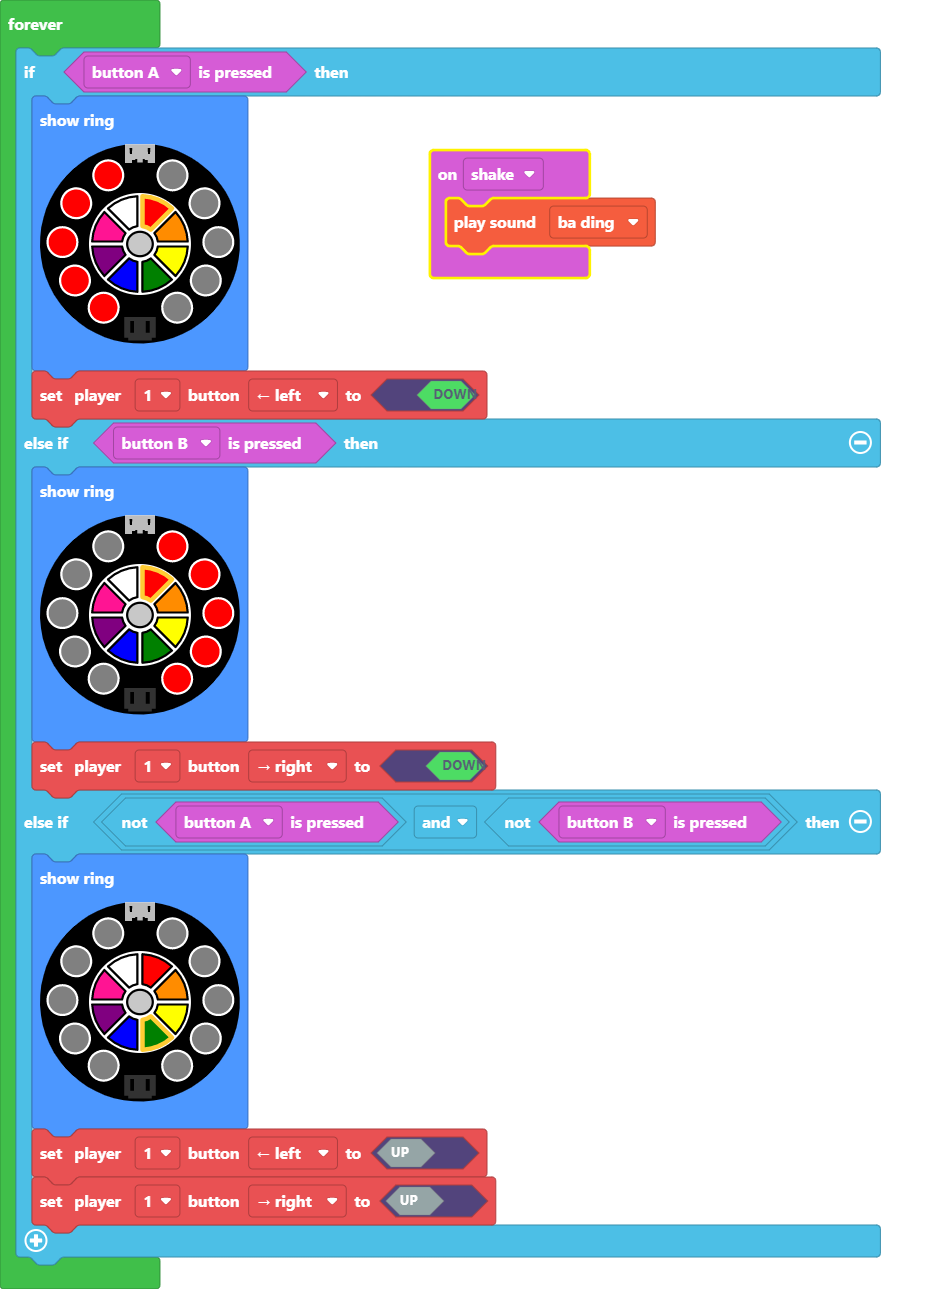
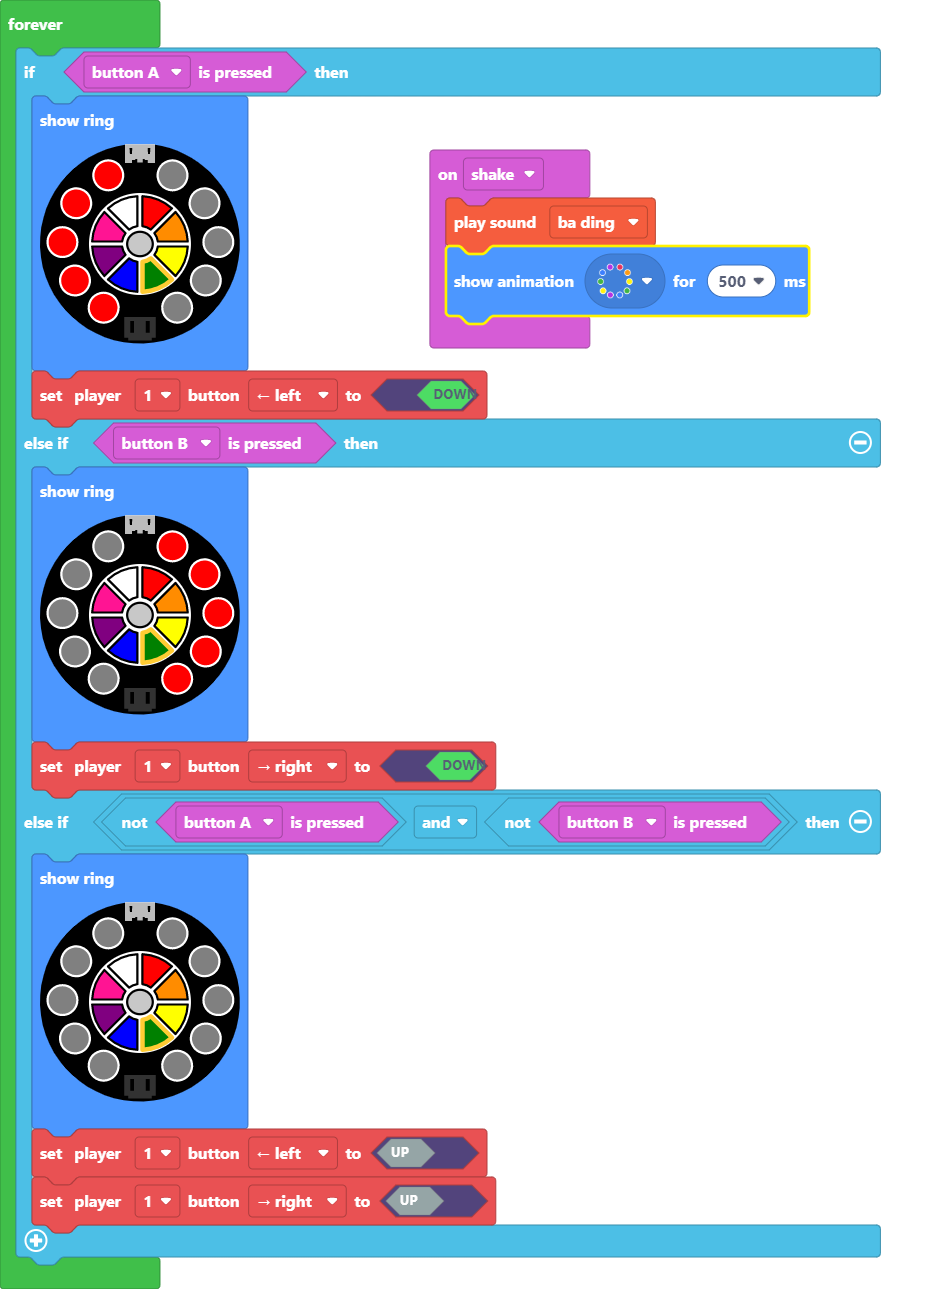
Update main.blocks, main.ts

diff --git a/main.ts b/main.ts
@@ -1,5 +1,6 @@
 input.onGesture(Gesture.Shake, function () {
     music.baDing.play()
+    light.showAnimation(light.rainbowAnimation, 500)
 })
 forever(function () {
     if (input.buttonA.isPressed()) {
